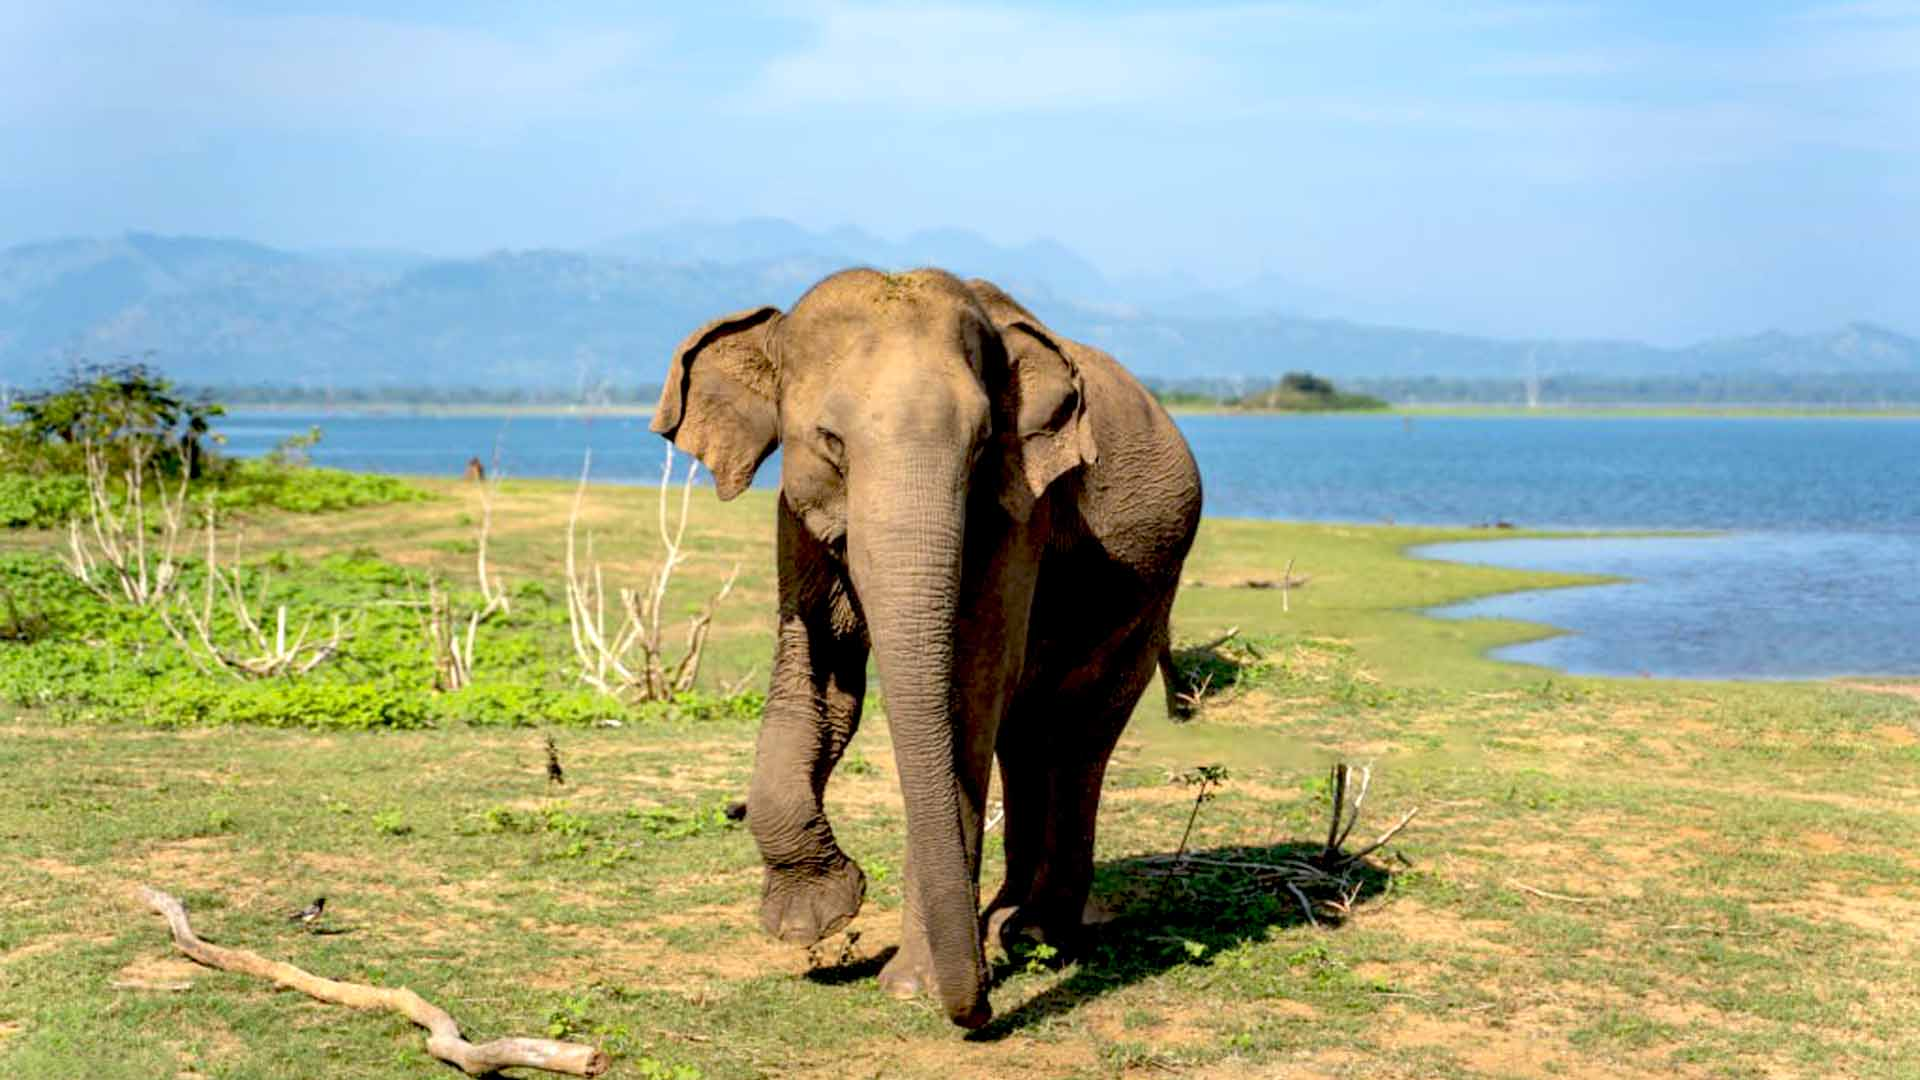
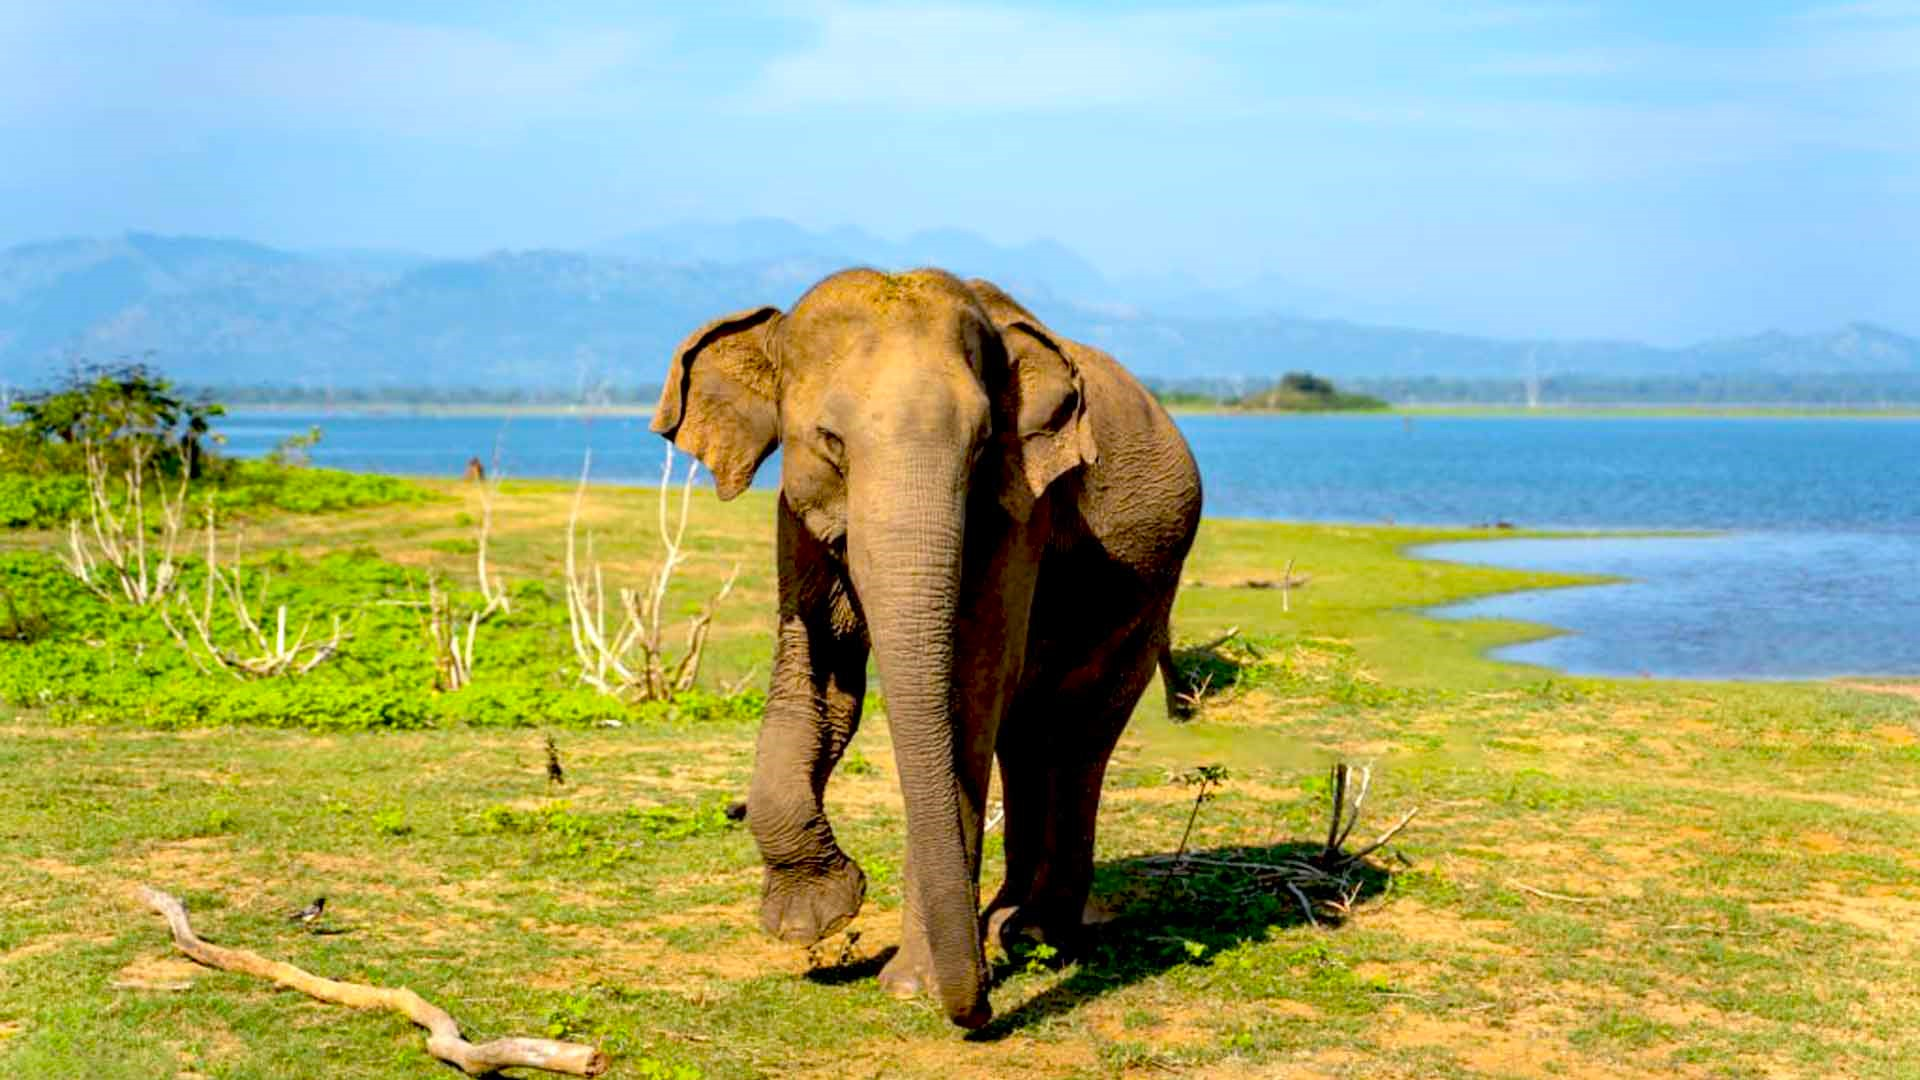
add photos to gallery

diff --git a/src/pages/Rooms.jsx b/src/pages/Rooms.jsx
@@ -112,15 +112,30 @@ const RoomsSection = () => {
         {/* Room Tabs */}
         <div className="card text-center shadow">
           <div className="card-header">
-            <ul className="nav nav-tabs card-header-tabs">
-              <li className="nav-item">
-                <button className={`nav-link ${activeTab === 'single' ? 'active text-warning-emphasis' : 'text-warning'}`} onClick={() => setActiveTab('single')}>Single</button>
+            <ul className="nav nav-tabs card-header-tabs w-100 d-flex">
+              <li className="nav-item flex-fill text-center">
+                <button
+                  className={`nav-link w-100 ${activeTab === 'single' ? 'active text-warning-emphasis' : 'text-warning'}`}
+                  onClick={() => setActiveTab('single')}
+                >
+                  Single
+                </button>
               </li>
-              <li className="nav-item">
-                <button className={`nav-link ${activeTab === 'double' ? 'active text-warning-emphasis' : 'text-warning'}`} onClick={() => setActiveTab('double')}>Double</button>
+              <li className="nav-item flex-fill text-center">
+                <button
+                  className={`nav-link w-100 ${activeTab === 'double' ? 'active text-warning-emphasis' : 'text-warning'}`}
+                  onClick={() => setActiveTab('double')}
+                >
+                  Double
+                </button>
               </li>
-              <li className="nav-item">
-                <button className={`nav-link ${activeTab === 'triple' ? 'active text-warning-emphasis' : 'text-warning'}`} onClick={() => setActiveTab('triple')}>Triple</button>
+              <li className="nav-item flex-fill text-center">
+                <button
+                  className={`nav-link w-100 ${activeTab === 'triple' ? 'active text-warning-emphasis' : 'text-warning'}`}
+                  onClick={() => setActiveTab('triple')}
+                >
+                  Triple
+                </button>
               </li>
             </ul>
           </div>

diff --git a/src/pages/Home.jsx b/src/pages/Home.jsx
@@ -34,9 +34,9 @@ import roomsImage03 from '../assets/Udawalava-Eligarden-Hotel-Gallery-Image01.jp
 import restaurantimage01 from '../assets/Udawalava-Eligarden-Hotel-Gallery-Image05.jpg';
 import restaurantimage02 from '../assets/Udawalava-Eligarden-Hotel-Gallery-Image04.jpg';
 import restaurantimage03 from '../assets/Udawalava-Eligarden-Hotel-Gallery-Image10.jpg';
-import safariImage01 from '../assets/sri-lanka-wild-life.jpg';
-import safariImage02 from '../assets/Udawalawe-Safari-Leopard-in-Sri-Lanka.jpg';
-import safariImage03 from '../assets/Yala-National-Park.jpg';
+import safariImage01 from '../assets/Udawalava-Eligarden-Hotel-Safari-Gallery-Image60.jpg';
+import safariImage02 from '../assets/Udawalava-Eligarden-Hotel-Safari-Gallery-Image55.jpg';
+import safariImage03 from '../assets/Udawalava-Eligarden-Hotel-Safari-Gallery-Image28.jpg';
 
 import img1 from '../assets/Udawalava-Eligarden-Hotel-Gallery-Image01.jpg';
 import img2 from '../assets/Udawalava-Eligarden-Hotel-Gallery-Image02.jpg';

diff --git a/src/pages/SafariTours.jsx b/src/pages/SafariTours.jsx
@@ -7,7 +7,7 @@ import slider1 from '../assets/Yala-National-Park.jpg';
 import slider2 from '../assets/nine_arch_bridge_02.jpg';
 import slider3 from '../assets/slider1.jpg';
 import seasonalturs from '../assets/Sigiriya-Leopard-in-Sri-Lanka.jpg';
-import udawalava01 from '../assets/Udawalawe-Safari-Leopard-in-Sri-Lanka.jpg';
+import udawalava01 from '../assets/sri_lanka_elephant_01.jpg';
 import udawalava02 from '../assets/Udawalava-Eligarden-Hotel-Safari-Gallery-Image03.jpg';
 import udawalava03 from '../assets/Udawalava-Eligarden-Hotel-Safari-Gallery-Image06.jpg';
 import udawalava04 from '../assets/Udawalava-Eligarden-Hotel-Safari-Gallery-Image09.jpg';

diff --git a/src/components/MainCarousel.jsx b/src/components/MainCarousel.jsx
@@ -3,7 +3,7 @@ import { Carousel } from 'react-bootstrap';
 import { FaHome, FaUtensils, FaBed } from 'react-icons/fa';
 import slider2 from '../assets/restaurent_wallpaper_02.jpeg';
 import slider1 from '../assets/hotel_wallpaper_01.jpg';
-import slider3 from '../assets/sri-lanka-leopard-asian.jpg';
+import slider3 from '../assets/sri_lanka_elephant_04.jpg';
 
 function MainCarousel() {
   return (
